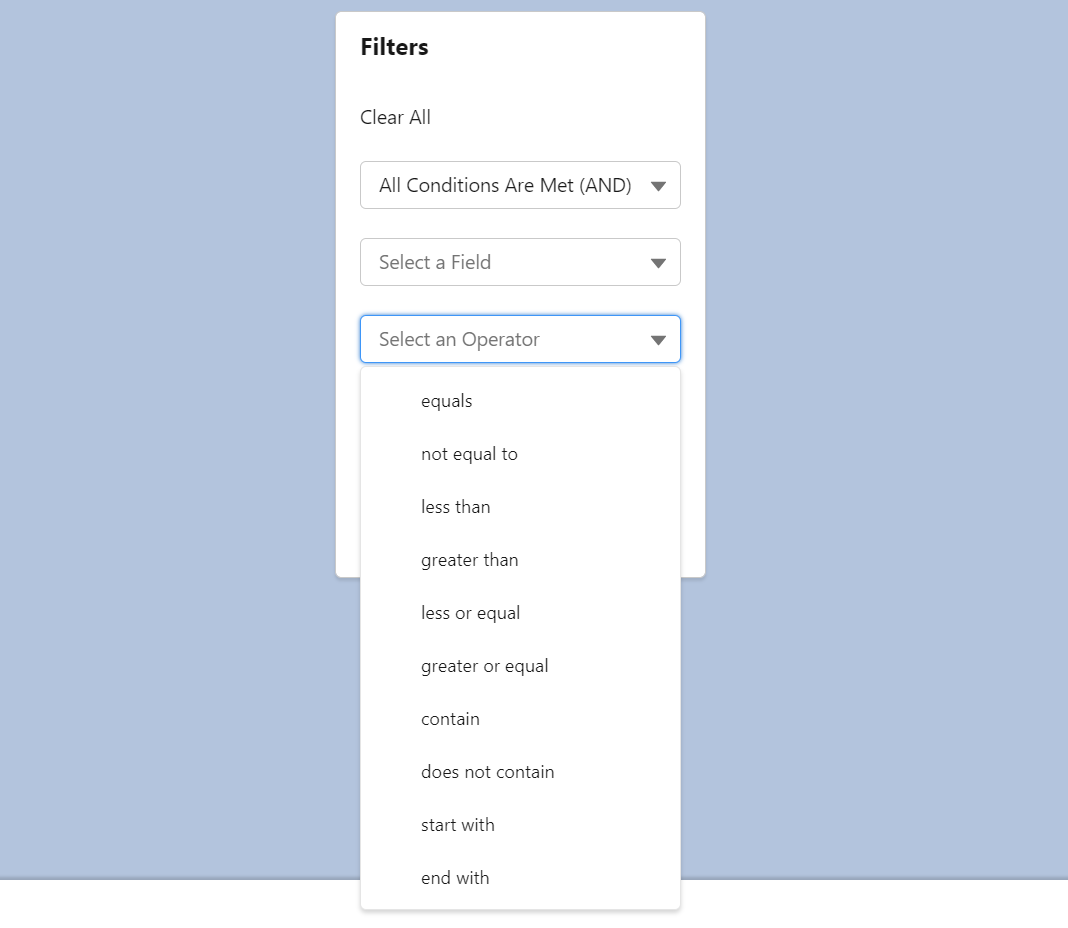
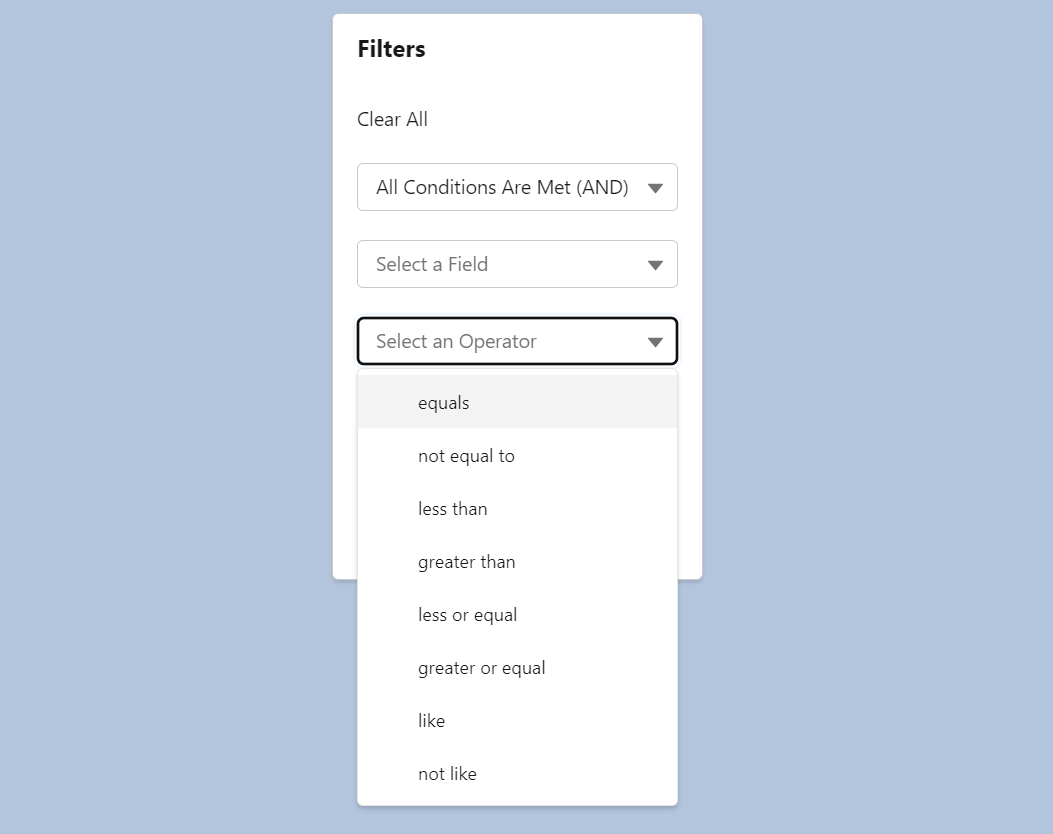
Add new version

diff --git a/README.md b/README.md
@@ -1,7 +1,7 @@
 # Object Filter LWC
 Provides a dynamic multi-filter component for any object.
 
-<a href="https://login.salesforce.com/packaging/installPackage.apexp?p0=04t7Q000000YyywQAC">
+<a href="https://login.salesforce.com/packaging/installPackage.apexp?p0=04t7Q000000YzUfQAK">
 <img alt="Deploy to Salesforce" src="https://raw.githubusercontent.com/afawcett/githubsfdeploy/master/deploy.png">
 </a>
 
@@ -19,33 +19,36 @@ Provides a dynamic multi-filter component for any object.
     - Example of the FilterState object as JSON:
 ```json
 {
-   "filterList":[
-      {
-         "id":1679649831842,
-         "index":1,
-         "field":{
-            "apiName":"Amount",
-            "labelName":"Amount",
-            "type":"CURRENCY"
-         },
-         "operator":">",
-         "operatorValue":"12"
+  "filterList":[
+    {
+      "id":1680248239260,
+      "index":1,
+      "field":{
+        "apiName":"Amount",
+        "labelName":"Amount",
+        "type":"CURRENCY"
       },
-      {
-         "id":1679649886747,
-         "index":2,
-         "field":{
-            "apiName":"Name",
-            "labelName":"Name",
-            "type":"STRING"
-         },
-         "operator":"contain",
-         "operatorValue":"test"
-      }
-   ],
-   "filterString":"Amount >  12  AND  Name like '%test%'",
-   "logicalCondition":"AND",
-   "customLogicalCondition":"1 AND 2"
+      "operator":">",
+      "operatorValue":"12",
+      "bindVariable":"value1"
+    },
+    {
+      "id":1680248266240,
+      "index":2,
+      "field":{
+        "apiName":"Name",
+        "labelName":"Name",
+        "type":"STRING"
+      },
+      "operator":"like",
+      "operatorValue":"%test%",
+      "bindVariable":"value2"
+    }
+  ],
+  "filterString":"Amount > 12 AND  Name like '%test%'",
+  "filterStringWithBinds":"Amount > :value1 AND  Name like :value2",
+  "logicalCondition":"AND",
+  "logicalOrder":"1 AND 2"
 }
 ```
 - loadFilterState(filterState) - load the FilterState object to the component.
